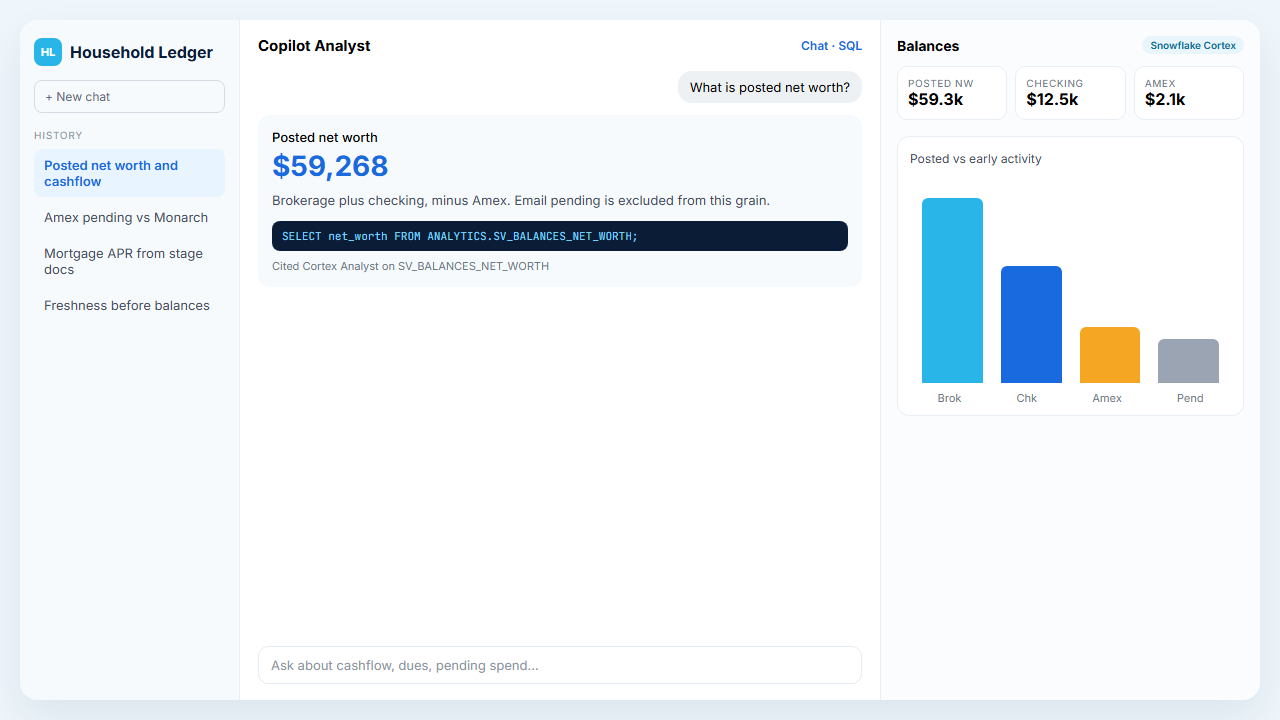
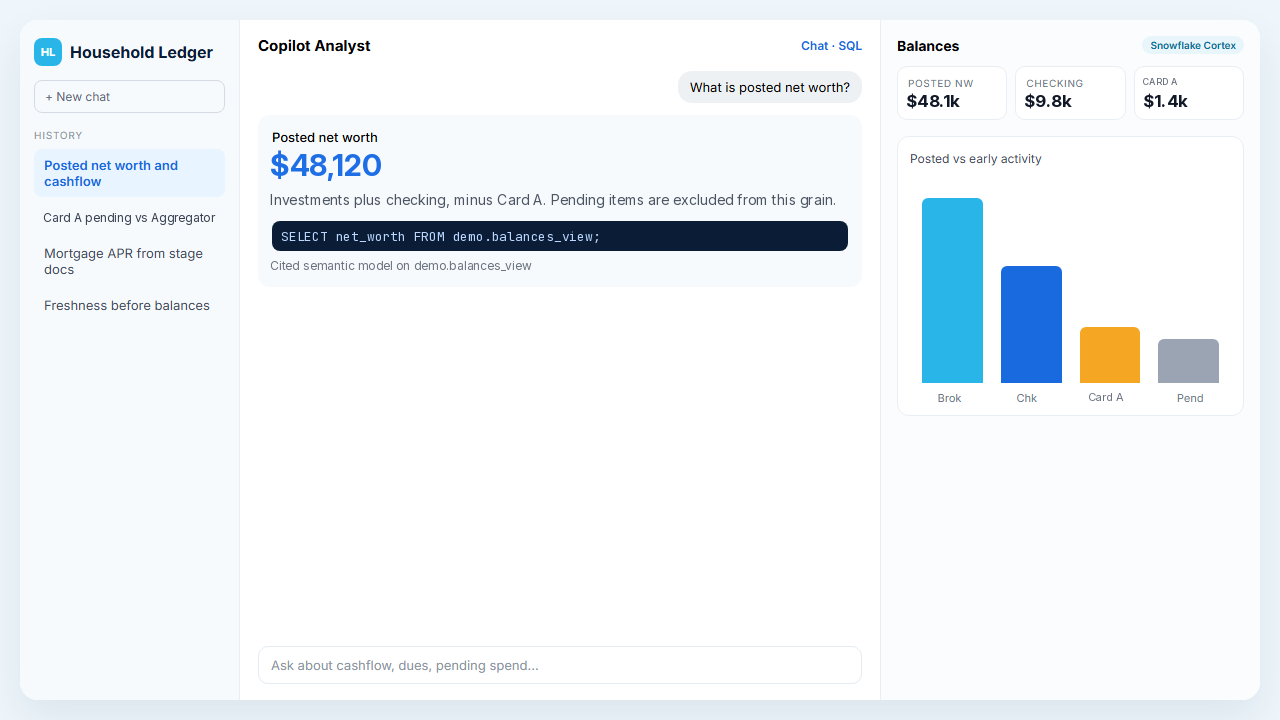
fix: Household Ledger featured image clipped to a 240px band (#15)
* fix: show full featured project screenshots (16:9) instead of a 240px crop

* chore: sample figures and generic labels in Household Ledger screenshot

---------

diff --git a/src/styles/modules.css b/src/styles/modules.css
@@ -426,6 +426,18 @@ body.dark-theme .home {
   height: 240px;
 }
 
+/* Full-width featured screenshot: match its 16:9 frame so it is not clipped.
+   Icon-only featured tiles keep the 240px band above. */
+.project-grid--ledger .is-featured .project-tile__media:has(> img) {
+  height: auto;
+  aspect-ratio: 16 / 9;
+}
+
+.project-grid--ledger .is-featured .project-tile__media:has(> img) img {
+  position: absolute;
+  inset: 0;
+}
+
 .project-tile--part .project-tile__media {
   height: 148px;
 }
